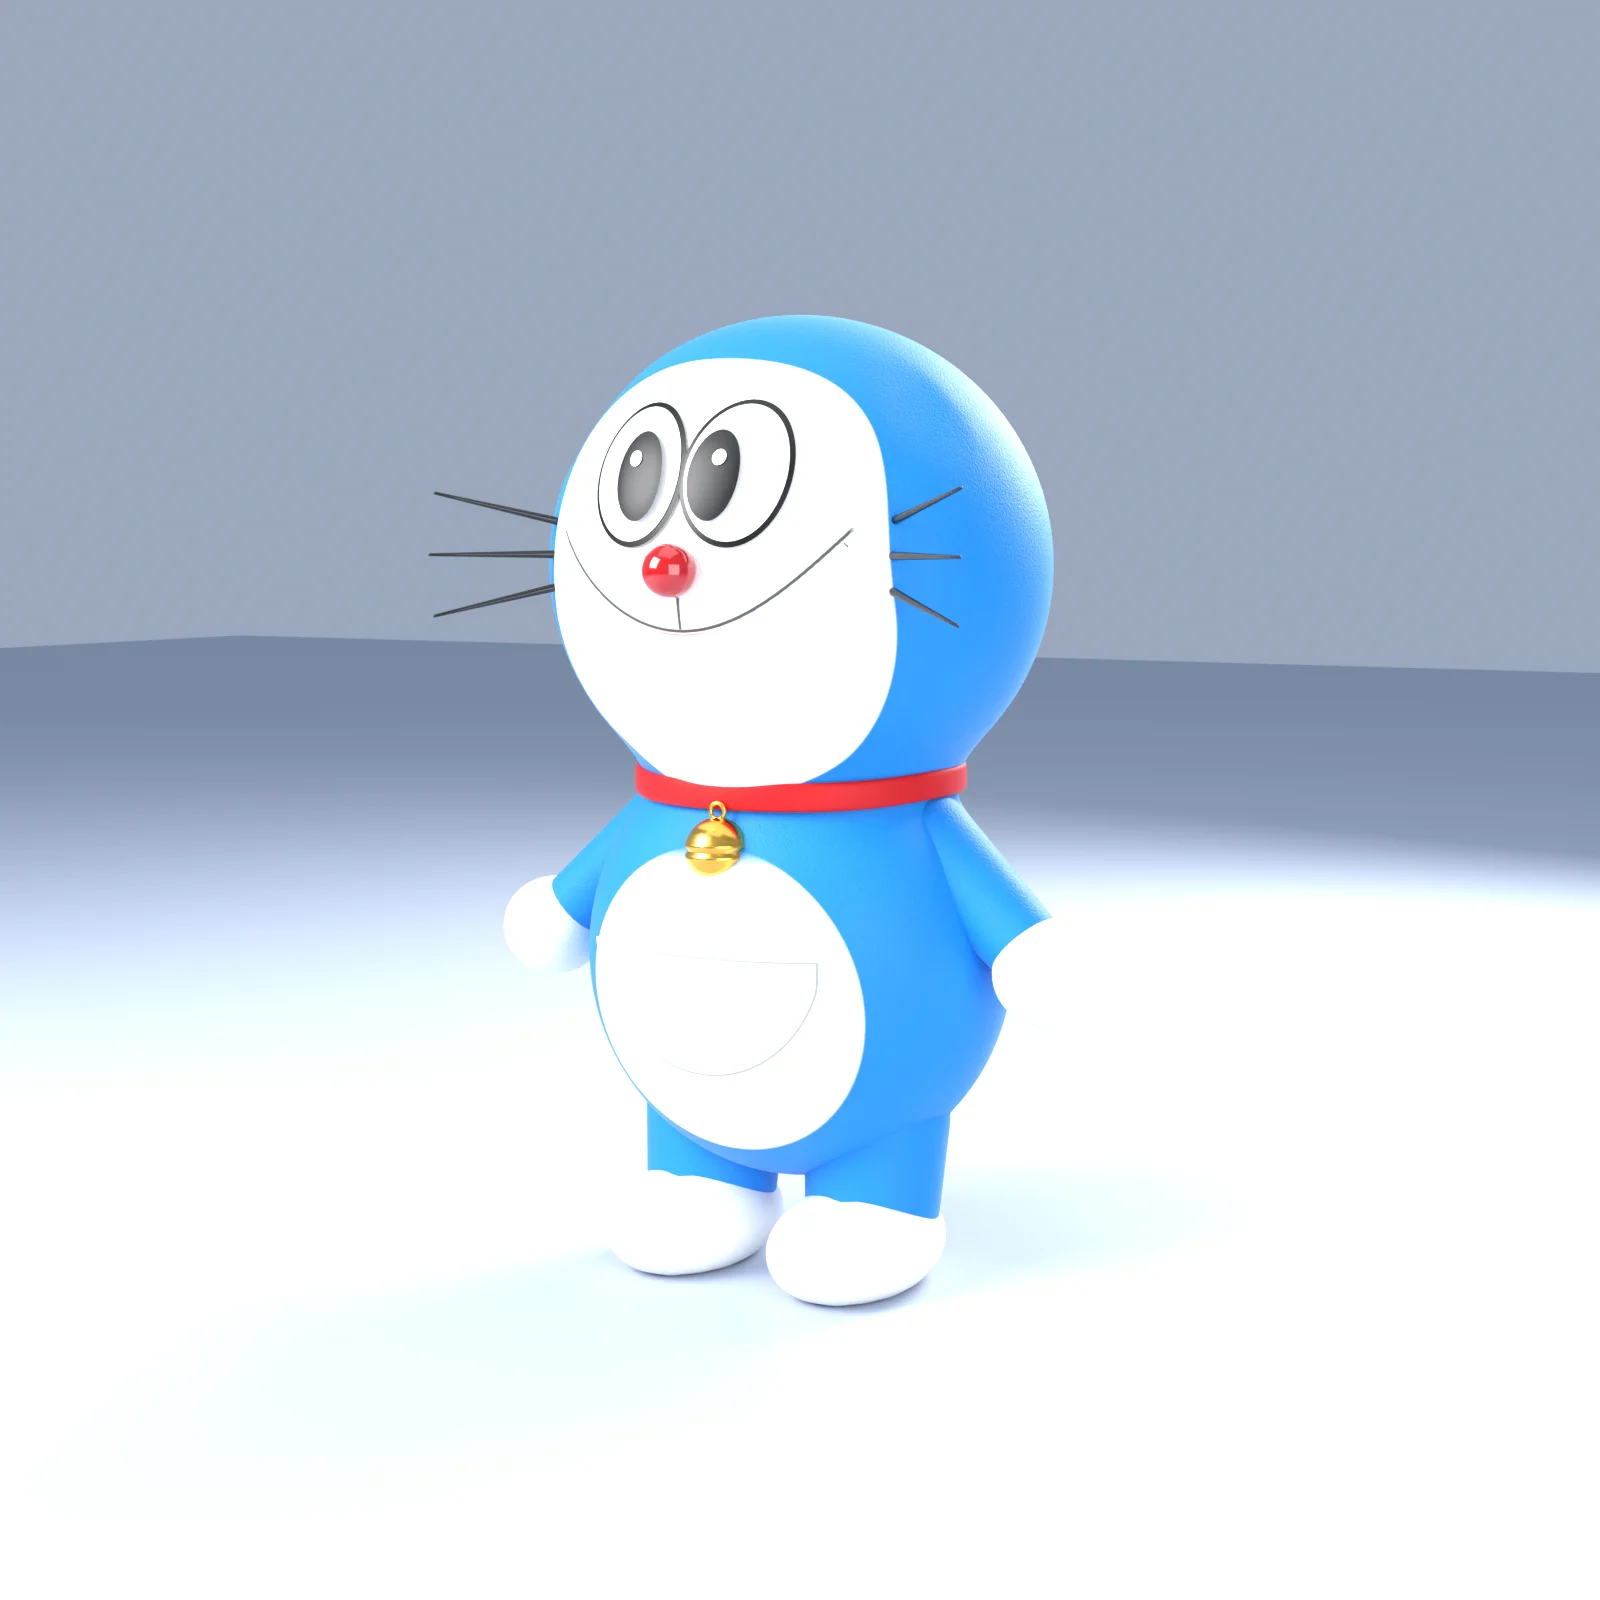
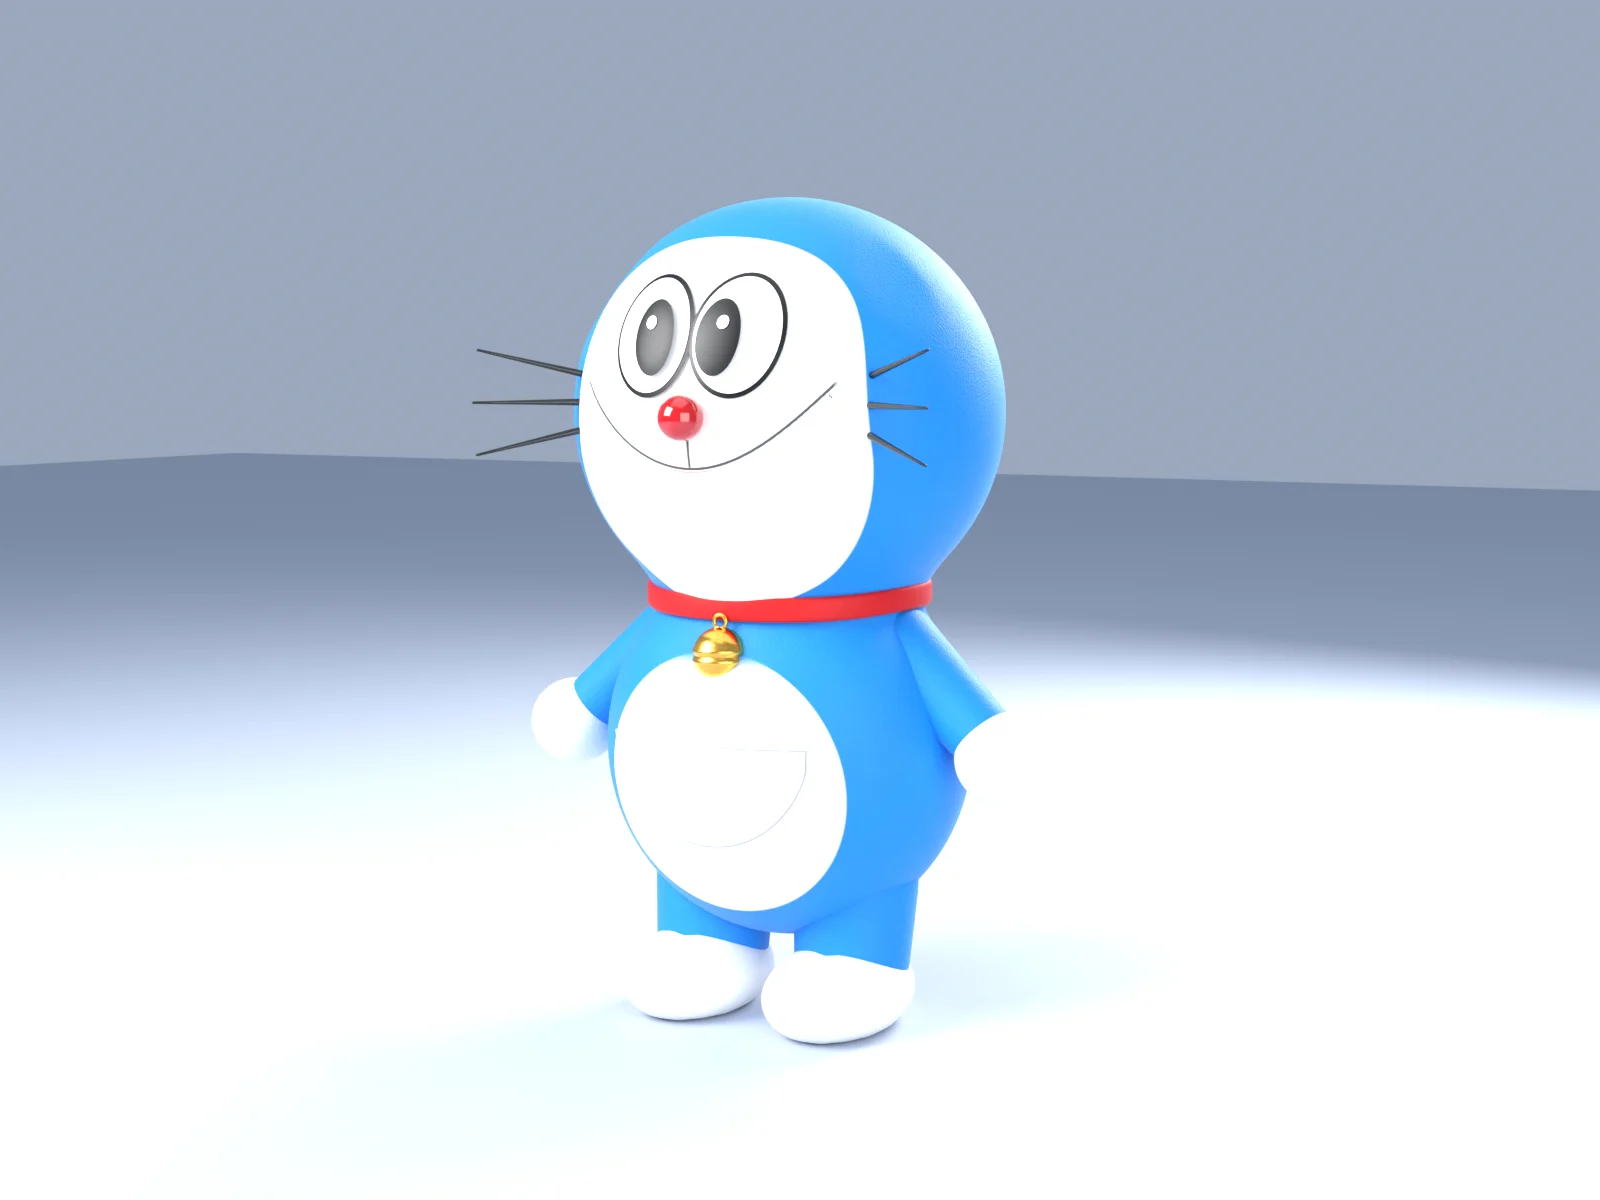
Feature Doraemon in the hero; show the morph loader again
- Doraemon is now the featured project (hero render, preload, caption); the
  hero render is re-rendered at 4:3 so nothing is cropped.
- Remove the project-render poster that covered the particle morph loader
  while a model streamed in, and the viewerReady plumbing behind it.

Changed region(s): [[0.0, 0.1542, 1.0, 0.8942]]

diff --git a/src/components/three/AssetModel.tsx b/src/components/three/AssetModel.tsx
@@ -6,22 +6,12 @@ import type { OrbitControls as OrbitControlsImpl } from 'three-stdlib'
 import type { Project } from '@/data/portfolioData'
 import { ProceduralModel } from './ProceduralModels'
 import { MorphLoader } from './MorphLoader'
-import { useStore } from '@/store/useStore'
 import { DoraemonModel } from './DoraemonModel'
 
 interface ViewProps {
   wireframe: boolean
   clay: boolean
   wireColor: string
-}
-
-/** Tells the inspector the model is on screen (it then fades out the project's render shown while loading). */
-function Ready() {
-  const setReady = useStore((st) => st.setViewerReady)
-  useEffect(() => {
-    setReady(true)
-  }, [setReady])
-  return null
 }
 
 // ── Error boundary (corrupt / unsupported files fall back to procedural) ───
@@ -127,24 +117,14 @@ function GLBModel({ url, wireframe, clay }: { url: string } & Omit<ViewProps, 'w
     [gltf, originals, clayMaterial, url],
   )
 
-  return (
-    <>
-      <primitive object={root} />
-      <Ready />
-    </>
-  )
+  return <primitive object={root} />
 }
 
 /**
  * Renders an asset's .glb when present, otherwise its procedural fallback.
  */
 export function AssetModel({ asset, wireframe, clay, wireColor }: { asset: Project } & ViewProps) {
-  const fallback = (
-    <>
-      <ProceduralModel id={asset.fallbackModel ?? 'hyperKnot'} wireframe={wireframe} clay={clay} wireColor={wireColor} />
-      <Ready />
-    </>
-  )
+  const fallback = <ProceduralModel id={asset.fallbackModel ?? 'hyperKnot'} wireframe={wireframe} clay={clay} wireColor={wireColor} />
   if (!asset.modelUrl) return fallback
 
   // The availability check and the download both suspend under one boundary,

diff --git a/src/components/modals/InspectorModal.tsx b/src/components/modals/InspectorModal.tsx
@@ -100,7 +100,6 @@ export function InspectorModal() {
   const asset = useStore((s) => s.activeAsset)
   const close = useStore((s) => s.closeAsset)
   const viewer = useStore((s) => s.viewer)
-  const viewerReady = useStore((s) => s.viewerReady)
   const toggleWireframe = useStore((s) => s.toggleWireframe)
   const toggleAutoRotate = useStore((s) => s.toggleAutoRotate)
   const setLighting = useStore((s) => s.setLighting)
@@ -172,16 +171,6 @@ export function InspectorModal() {
                 </Suspense>
               )}
 
-              {/* the project's render fills the viewport while the model streams in, then fades out */}
-              {show3D && view === 'live' && (
-                <img
-                  src={asset.thumbnailUrl}
-                  alt=""
-                  aria-hidden
-                  decoding="async"
-                  className={`pointer-events-none absolute inset-0 h-full w-full scale-105 object-cover blur-[2px] transition-opacity duration-700 ${viewerReady ? 'opacity-0' : 'opacity-100'}`}
-                />
-              )}
               {view === 'live' && (
                 <div className={`pointer-events-none absolute left-4 top-4 flex flex-col gap-0.5 font-mono text-[11px] ${dark ? 'text-white/70' : 'text-ink-2'}`}>
                   <span>

diff --git a/src/store/useStore.ts b/src/store/useStore.ts
@@ -27,9 +27,6 @@ export interface CharCommand {
 
 interface PortfolioState {
   activeAsset: Project | null
-  /** True once the open project's 3D model is on screen (the inspector shows the project's render until then). */
-  viewerReady: boolean
-  setViewerReady: (ready: boolean) => void
   charCmd: CharCommand | null
   sendCharCmd: (cmd: CharCommand['cmd'], arg?: string) => void
   viewer: ViewerSettings
@@ -50,13 +47,11 @@ let toastId = 0
 
 export const useStore = create<PortfolioState>((set) => ({
   activeAsset: null,
-  viewerReady: false,
-  setViewerReady: (viewerReady) => set({ viewerReady }),
   charCmd: null,
   sendCharCmd: (cmd, arg) => set((s) => ({ charCmd: { n: (s.charCmd?.n ?? 0) + 1, cmd, arg } })),
   viewer: defaultViewer,
   toasts: [],
-  openAsset: (activeAsset) => set({ activeAsset, viewerReady: false, viewer: { ...defaultViewer } }),
+  openAsset: (activeAsset) => set({ activeAsset, viewer: { ...defaultViewer } }),
   closeAsset: () => set({ activeAsset: null }),
   toggleWireframe: () => set((s) => ({ viewer: { ...s.viewer, wireframe: !s.viewer.wireframe } })),
   toggleAutoRotate: () => set((s) => ({ viewer: { ...s.viewer, autoRotate: !s.viewer.autoRotate } })),

diff --git a/src/data/portfolioData.ts b/src/data/portfolioData.ts
@@ -131,7 +131,6 @@ export const projects: Project[] = [
     tags: ['Physics', 'Game-Ready', 'glTF / FBX'],
     accent: '#b9521a',
     year: 2026,
-    featured: true,
     previewSize: '6 MB',
     renders: [
       { src: asset('/projects/fruit-crate/hero.webp'), caption: 'Hero render — Cycles, studio lighting' },
@@ -201,6 +200,7 @@ export const projects: Project[] = [
     modelUrl: asset('/models/doraemon.glb') + `?v=${MODEL_V}`,
     fallbackModel: 'liquidOrb',
     interactive: 'doraemon',
+    featured: true,
     polyCount: '101k Tris + gadgets',
     textures: '4K skin PBR · 2K gadgets',
     topology: 'All-quad · 53 shape keys',

diff --git a/index.html b/index.html
@@ -14,7 +14,7 @@
     <meta property="og:type" content="website" />
     <link rel="icon" type="image/svg+xml" href="%BASE_URL%favicon.svg" />
     <!-- the hero render is the largest thing on first paint: start fetching it before the JS has rendered the <img> -->
-    <link rel="preload" as="image" type="image/webp" href="%BASE_URL%projects/fruit-crate/hero.webp" fetchpriority="high" />
+    <link rel="preload" as="image" type="image/webp" href="%BASE_URL%projects/doraemon/hero.webp" fetchpriority="high" />
   </head>
   <body>
     <div id="root"></div>

diff --git a/src/components/three/DoraemonModel.tsx b/src/components/three/DoraemonModel.tsx
@@ -393,11 +393,6 @@ export function DoraemonModel({ url, wireframe, clay }: { url: string; wireframe
     document.body.style.cursor = pickHit(e) ? 'pointer' : ''
   }
 
-  const setReady = useStore((s) => s.setViewerReady)
-  useEffect(() => {
-    setReady(true)
-  }, [setReady])
-
   return (
     <group ref={root} position={[0, FLOOR_Y, 0]} scale={SCALE}>
       <primitive object={model.scene} onPointerDown={onDown} onPointerMove={onMove} onPointerOut={() => (document.body.style.cursor = '')} />
